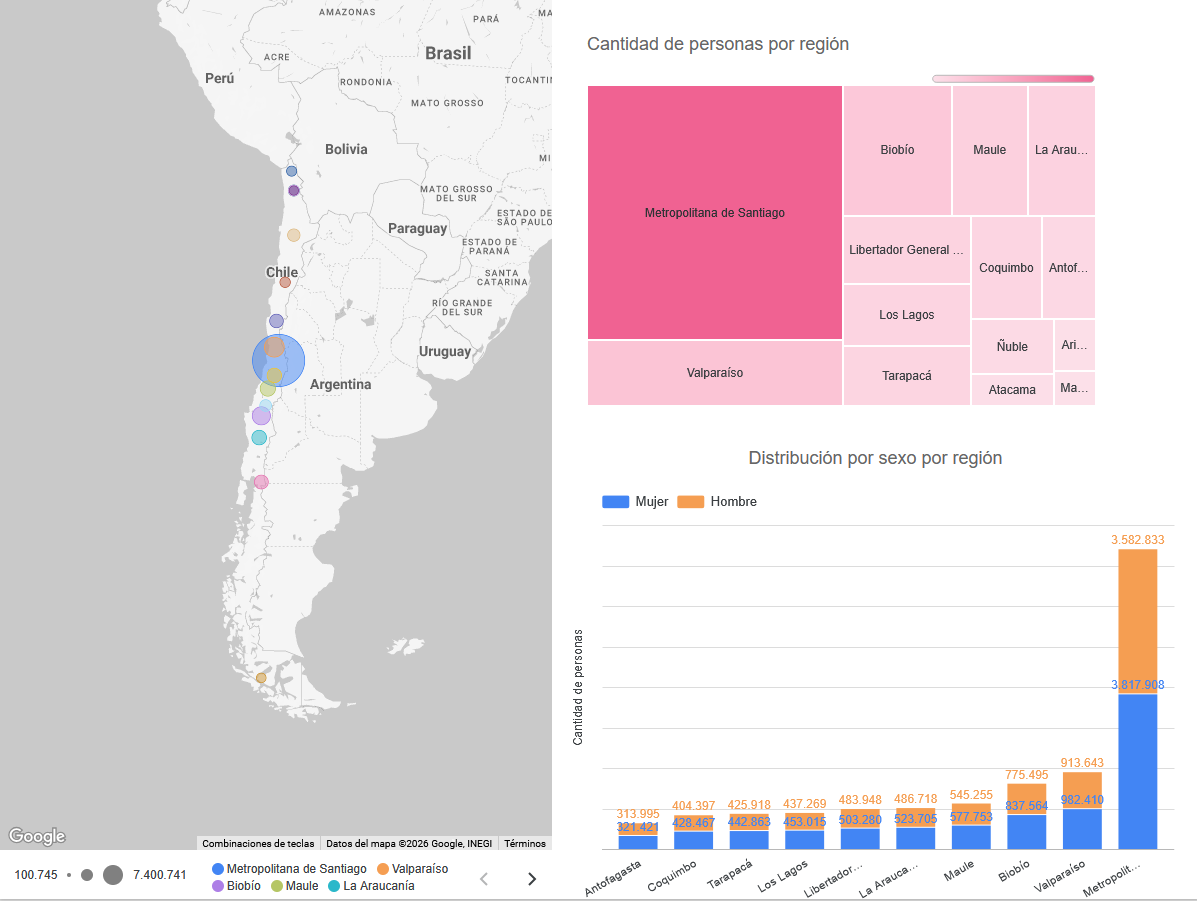
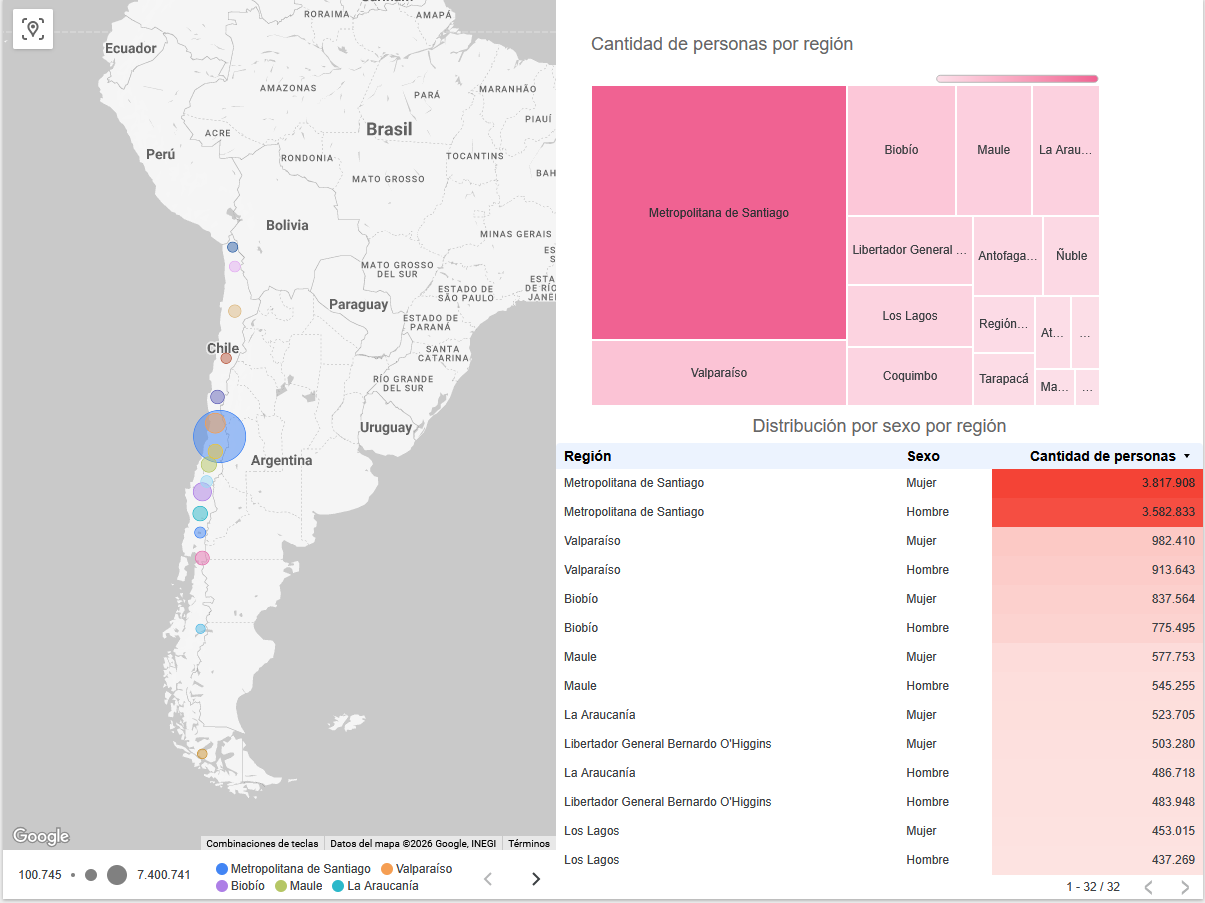
docs: updates looker studio graphs

diff --git a/README.md b/README.md
@@ -212,6 +212,8 @@ Son 18.480.432 registros. Se cargó todo en una sola tabla denormalizada (ver el
 
 ## Looker Studio
 
-Un pequeño reporte demostrando 3 gráficos con distintas distribuciones de las personas censadas.
+Un par de gráficos con distintas distribuciones de las personas censadas.
 
 ![LookerStudio](image/lookerstudio.png)
+
+![LookerStudio1](image/lookerstudio1.png)
